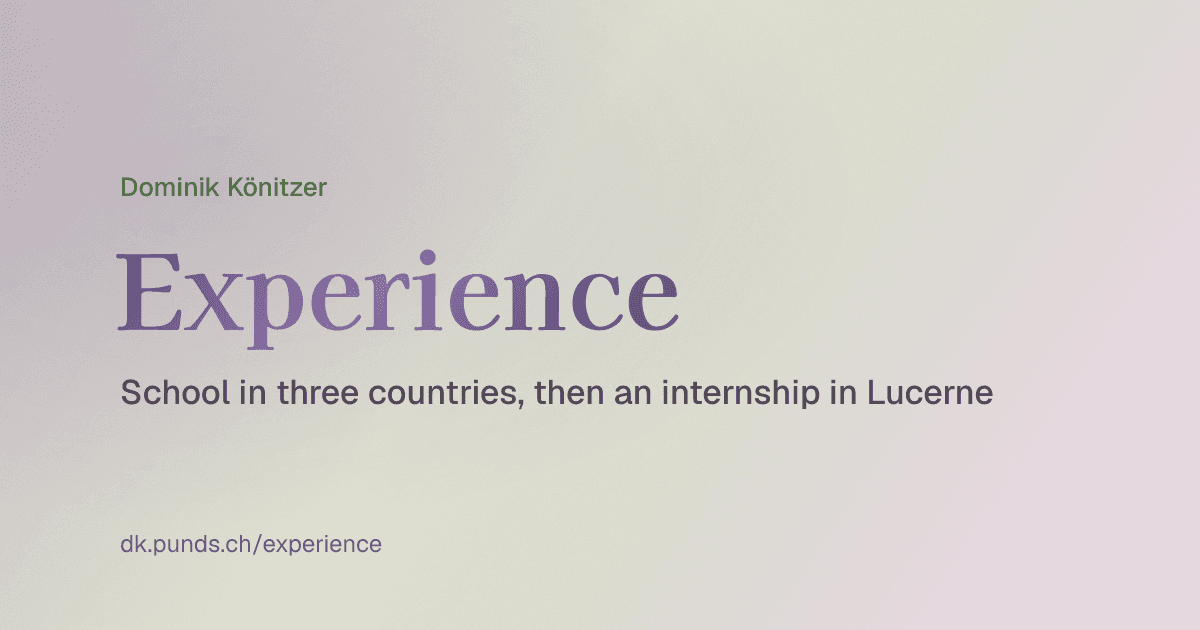
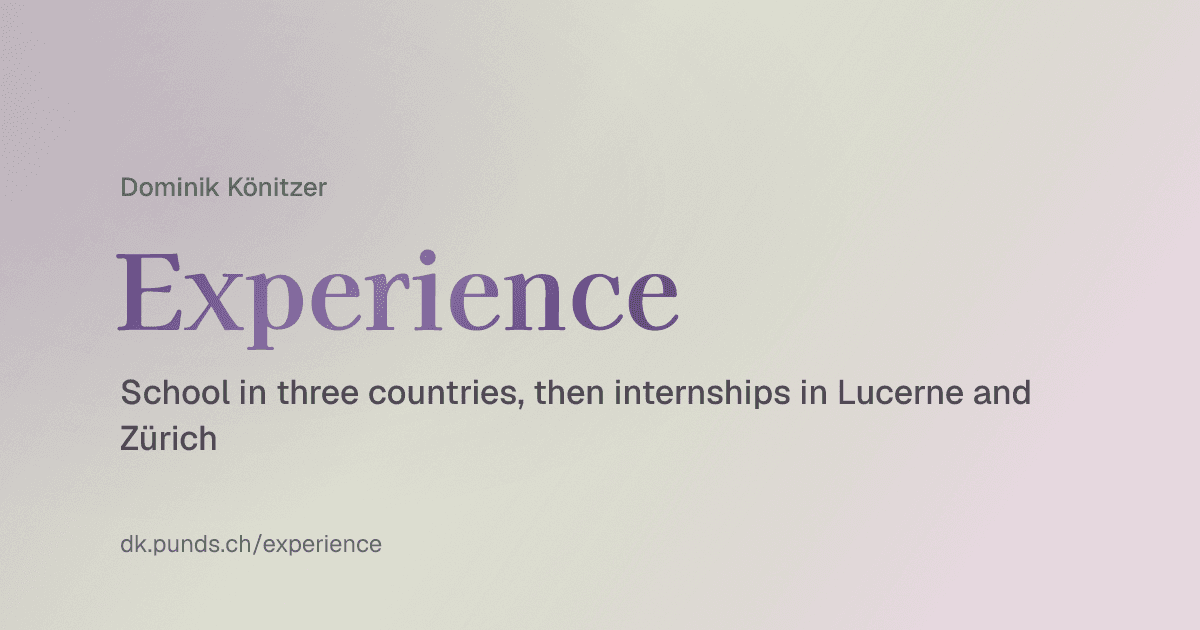
Point the share card and structured data at the current internship

diff --git a/scripts/gen-og.ts b/scripts/gen-og.ts
@@ -166,7 +166,7 @@ const homeCard = () =>
 
 const CARDS: { out: string; title: string; subtitle: string; path: string }[] = [
   { out: "public/og/about.png", title: "About", subtitle: "Software engineer in Zürich, Switzerland", path: "/about" },
-  { out: "public/og/experience.png", title: "Experience", subtitle: "School in three countries, then an internship in Lucerne", path: "/experience" },
+  { out: "public/og/experience.png", title: "Experience", subtitle: "School in three countries, then internships in Lucerne and Zürich", path: "/experience" },
   { out: "public/og/skills.png", title: "Skills", subtitle: "What I work with day to day, and what I'm still getting better at", path: "/skills" },
   { out: "public/og/projects.png", title: "Projects", subtitle: "Things I built, most of them with the source", path: "/projects" },
   { out: "public/og/services.png", title: "Services", subtitle: "Web development and software engineering, Zürich or remote", path: "/services" },

diff --git a/src/constants/timeline.ts b/src/constants/timeline.ts
@@ -349,7 +349,7 @@ const TIMELINE: Record<Language, TimelineContent> = {
         points: [
           "Des fonctionnalités pour un produit sur lequel des professionnels comptent chaque jour, construites avec Angular et TypeScript.",
           "Du travail backend en C# et .NET, avec les tests unitaires qui vont avec.",
-          "Des tests de bout en bout avec Playwright, pour qu'une modification soit vérifiée avant de partir.",
+          "Des tests de bout en bout avec Playwright, pour qu'une modification soit vérifiée avant sa mise en production.",
           "Le quotidien d'une équipe agile : merge requests, revues de code, mises en production.",
         ],
         tags: SWISSLEX_TAGS,

diff --git a/src/pages/Experience.tsx b/src/pages/Experience.tsx
@@ -45,10 +45,10 @@ const Experience = () => {
             hasOccupation: [
               {
                 "@type": "Occupation",
-                name: "Software Engineering Intern",
+                name: "Swisslex Intern",
                 occupationLocation: {
                   "@type": "City",
-                  name: "Lucerne, Switzerland",
+                  name: "Zürich, Switzerland",
                 },
               },
             ],
